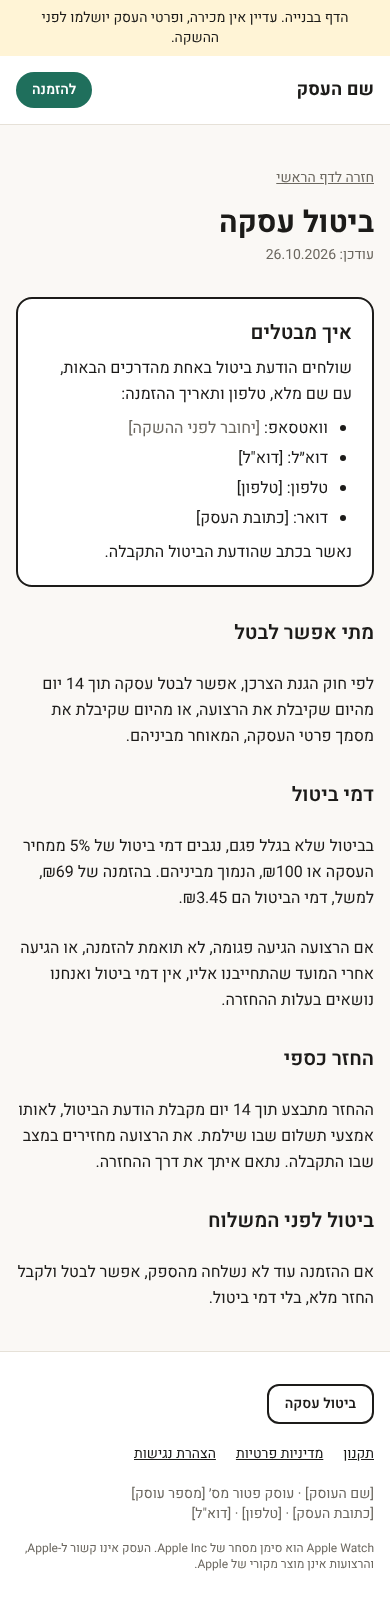
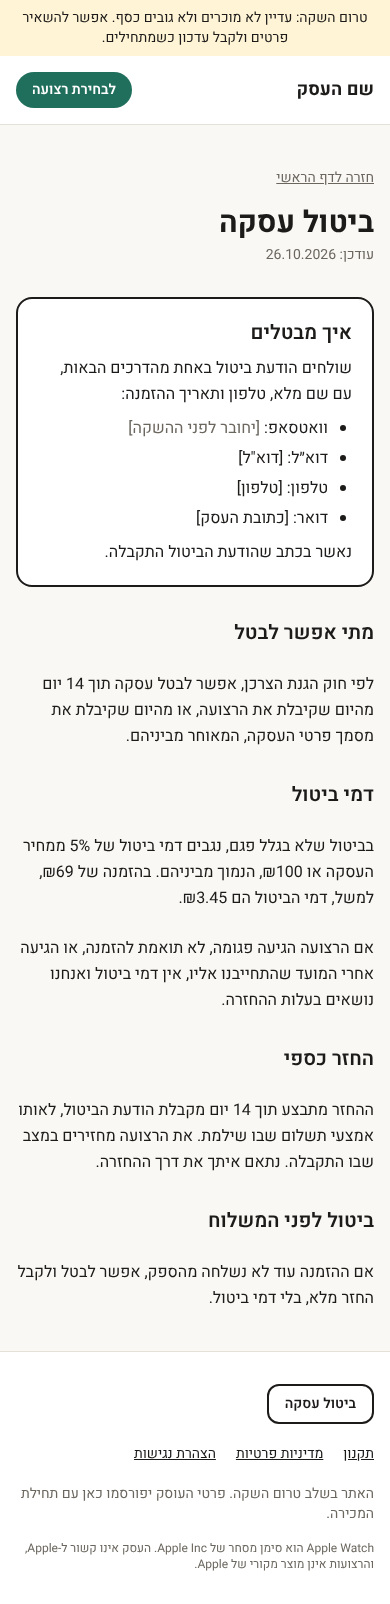
Add waitlist (pre-launch) mode: no sales or payment until a business is registered
Claude-Session: https://claude.ai/code/session_01Fwe7f53XDHbcXGYGYzQVNU

diff --git a/app/components/OrderForm.tsx b/app/components/OrderForm.tsx
@@ -9,6 +9,7 @@ import {
   contact,
   defaultQty,
   delivery,
+  isLive,
   paymentLinks,
   type BandType,
   type ColorId,
@@ -36,7 +37,8 @@ export function OrderForm() {
   const sizes = bandTypes[type].sizes;
   const chosen = bandColors.slice(0, qty).map(colorById);
   const previewColor = colorById(bandColors[Math.min(activeBand, qty - 1)]);
-  const ready = size !== "" && agreed;
+  // בטרום השקה אין עסקה, ולכן אין צורך באישור תקנון
+  const ready = size !== "" && (agreed || !isLive);
 
   function chooseType(next: BandType) {
     setType(next);
@@ -53,20 +55,22 @@ export function OrderForm() {
   }
 
   const message = [
-    "שלום, אני רוצה להזמין:",
+    isLive
+      ? "שלום, אני רוצה להזמין:"
+      : "שלום, אשמח לקבל עדכון כשהרצועות זמינות. מה שמעניין אותי:",
     `${bundle.label} – ${bandTypes[type].name}`,
     `מידה: ${size || "לא נבחרה"}`,
     `צבעים: ${chosen.map((c) => c.name).join(", ")}`,
-    `סה״כ: ₪${bundle.price}`,
+    `${isLive ? "סה״כ" : "מחיר השקה"}: ₪${bundle.price}`,
     method === "home"
-      ? "משלוח עד הבית (אשלח כתובת)"
+      ? `משלוח עד הבית${isLive ? " (אשלח כתובת)" : ""}`
       : `מסירה אישית באזור ${delivery.personal.area}`,
   ].join("\n");
 
   const whatsappHref = contact.whatsappNumber
     ? `https://wa.me/${contact.whatsappNumber}?text=${encodeURIComponent(message)}`
     : "";
-  const paymentHref = paymentLinks[qty] ?? "";
+  const paymentHref = isLive ? (paymentLinks[qty] ?? "") : "";
 
   return (
     <section
@@ -75,7 +79,7 @@ export function OrderForm() {
       className="rounded-3xl border border-line bg-surface p-5 shadow-sm sm:p-8"
     >
       <h2 id="order-title" className="text-2xl font-bold">
-        בניית ההזמנה
+        {isLive ? "בניית ההזמנה" : "בחירת הרצועה שלך"}
       </h2>
 
       <div className="mt-6 grid gap-8 lg:grid-cols-[1fr_220px]">
@@ -301,29 +305,31 @@ export function OrderForm() {
             <dd>חינם</dd>
           </div>
           <div className="flex justify-between pt-2 text-lg font-bold">
-            <dt>סה״כ לתשלום</dt>
+            <dt>{isLive ? "סה״כ לתשלום" : "מחיר השקה"}</dt>
             <dd>₪{bundle.price}</dd>
           </div>
         </dl>
 
-        <label className="mt-5 flex items-start gap-2 text-sm">
-          <input
-            type="checkbox"
-            checked={agreed}
-            onChange={(e) => setAgreed(e.target.checked)}
-            className="mt-0.5 size-4 accent-[var(--accent)]"
-          />
-          <span>
-            קראתי ואני מסכים/ה ל
-            <Link href="/terms" className="underline">
-              תקנון
-            </Link>{" "}
-            ול
-            <Link href="/cancel" className="underline">
-              תנאי ביטול העסקה
-            </Link>
-          </span>
-        </label>
+        {isLive && (
+          <label className="mt-5 flex items-start gap-2 text-sm">
+            <input
+              type="checkbox"
+              checked={agreed}
+              onChange={(e) => setAgreed(e.target.checked)}
+              className="mt-0.5 size-4 accent-[var(--accent)]"
+            />
+            <span>
+              קראתי ואני מסכים/ה ל
+              <Link href="/terms" className="underline">
+                תקנון
+              </Link>{" "}
+              ול
+              <Link href="/cancel" className="underline">
+                תנאי ביטול העסקה
+              </Link>
+            </span>
+          </label>
+        )}
 
         {!ready && (
           <p className="mt-3 text-sm text-muted" aria-live="polite">
@@ -342,11 +348,11 @@ export function OrderForm() {
                 ready ? "bg-accent hover:bg-accent-strong" : "pointer-events-none bg-muted/50"
               }`}
             >
-              להזמנה בוואטסאפ
+              {isLive ? "להזמנה בוואטסאפ" : "תעדכנו אותי בהשקה"}
             </a>
           ) : (
             <span className="rounded-2xl bg-muted/40 px-5 py-4 text-center font-semibold text-white">
-              וואטסאפ יחובר לפני ההשקה
+              וואטסאפ יחובר בקרוב
             </span>
           )}
           {paymentHref && (
@@ -366,8 +372,9 @@ export function OrderForm() {
           )}
         </div>
         <p className="mt-3 text-xs text-muted">
-          אחרי שליחת ההזמנה בוואטסאפ נאשר את הפרטים ונשלח קישור לתשלום מאובטח באשראי.
-          ההזמנה יוצאת לדרך רק אחרי התשלום.
+          {isLive
+            ? "אחרי שליחת ההזמנה בוואטסאפ נאשר את הפרטים ונשלח קישור לתשלום מאובטח באשראי. ההזמנה יוצאת לדרך רק אחרי התשלום."
+            : "זו לא הזמנה ואין תשלום. נשלח לך הודעה כשהרצועות זמינות, ותחליט/י אז אם להזמין."}
         </p>
       </div>
     </section>

diff --git a/app/components/SiteChrome.tsx b/app/components/SiteChrome.tsx
@@ -1,11 +1,11 @@
 import Link from "next/link";
-import { business, site } from "@/lib/config";
+import { business, isLive, site } from "@/lib/config";
 
 export function DraftBanner() {
-  if (!site.isDraft) return null;
+  if (isLive) return null;
   return (
     <div className="bg-warn-soft px-4 py-2 text-center text-sm">
-      הדף בבנייה. עדיין אין מכירה, ופרטי העסק יושלמו לפני ההשקה.
+      טרום השקה: עדיין לא מוכרים ולא גובים כסף. אפשר להשאיר פרטים ולקבל עדכון כשמתחילים.
     </div>
   );
 }
@@ -21,7 +21,7 @@ export function SiteHeader() {
           href="/#order"
           className="rounded-full bg-accent px-4 py-2 text-sm font-semibold text-white hover:bg-accent-strong"
         >
-          להזמנה
+          {isLive ? "להזמנה" : "לבחירת רצועה"}
         </Link>
       </div>
     </header>
@@ -51,11 +51,17 @@ export function SiteFooter() {
           </Link>
         </nav>
 
-        <address className="mt-5 not-italic text-muted">
-          {business.ownerName} · {business.status} מס׳ {business.businessId}
-          <br />
-          {business.address} · {business.phone} · {business.email}
-        </address>
+        {isLive ? (
+          <address className="mt-5 not-italic text-muted">
+            {business.ownerName} · {business.status} מס׳ {business.businessId}
+            <br />
+            {business.address} · {business.phone} · {business.email}
+          </address>
+        ) : (
+          <p className="mt-5 text-muted">
+            האתר בשלב טרום השקה. פרטי העוסק יפורסמו כאן עם תחילת המכירה.
+          </p>
+        )}
 
         <p className="mt-4 text-xs text-muted">
           Apple Watch הוא סימן מסחר של Apple Inc. העסק אינו קשור ל-Apple, והרצועות אינן

diff --git a/lib/config.ts b/lib/config.ts
@@ -5,9 +5,12 @@ export type BandType = "silicone" | "magnetic";
 export const site = {
   // TODO: שם המותג אחרי שיוחלט (PLAN.md סעיף 9)
   brandName: "שם העסק",
-  // כל עוד true, מוצג פס עליון שהדף בבנייה ואין עדיין מכירה
-  isDraft: true,
+  // "waitlist": טרום השקה. אין מכירה ואין תשלום, רק השארת פרטים בוואטסאפ, וגוגל לא מאנדקס.
+  // "live": מכירה. רק אחרי פתיחת עוסק פטור והשלמת כל ה-TODO בקובץ.
+  mode: "waitlist" as "waitlist" | "live",
 };
+
+export const isLive = site.mode === "live";
 
 // פרטי העוסק, חובה לפי חוק הגנת הצרכן (מכר מרחוק)
 export const business = {

diff --git a/app/layout.tsx b/app/layout.tsx
@@ -1,6 +1,6 @@
 import type { Metadata, Viewport } from "next";
 import { Heebo } from "next/font/google";
-import { site } from "@/lib/config";
+import { isLive, site } from "@/lib/config";
 import "./globals.css";
 
 const heebo = Heebo({
@@ -12,7 +12,7 @@ export const metadata: Metadata = {
   title: `רצועות לשעון חכם | ${site.brandName}`,
   description:
     "רצועות סיליקון ומגנטיות לשעון חכם, במגוון צבעים ומידות. משלוח חינם עד הבית.",
-  robots: site.isDraft ? { index: false, follow: false } : undefined,
+  robots: isLive ? undefined : { index: false, follow: false },
 };
 
 export const viewport: Viewport = {

diff --git a/README.md b/README.md
@@ -25,7 +25,12 @@ npm run lint
 | 8–10 הצבעים אחרי הדגימות | `colors` |
 | אזור למסירה אישית | `delivery.personal.area` |
 | תנאי אחריות | `warrantyText` |
-| הסרת פס "הדף בבנייה" והפעלת אינדוקס בגוגל | `site.isDraft = false` |
+| מעבר ממצב טרום השקה למכירה (רק אחרי פתיחת עוסק) | `site.mode = "live"` |
+
+## שני מצבים
+
+- **`waitlist`** (ברירת המחדל): אין מכירה ואין תשלום. הכפתור שולח בוואטסאפ "תעדכנו אותי" עם הבחירה של הלקוח, והדף לא מאונדקס בגוגל. אפשר להפעיל את זה עוד לפני שיש עוסק, כדי לבדוק ביקוש.
+- **`live`**: הזמנה ותשלום. מוצגים אישור תקנון, פרטי העוסק בתחתית וכפתורי התשלום.
 
 התמונות בדף הן הדמיה גרפית (`app/components/BandPreview.tsx`). אחרי שהדגימות מגיעות, מחליפים בתמונות ובסרטון אמיתיים.
 
